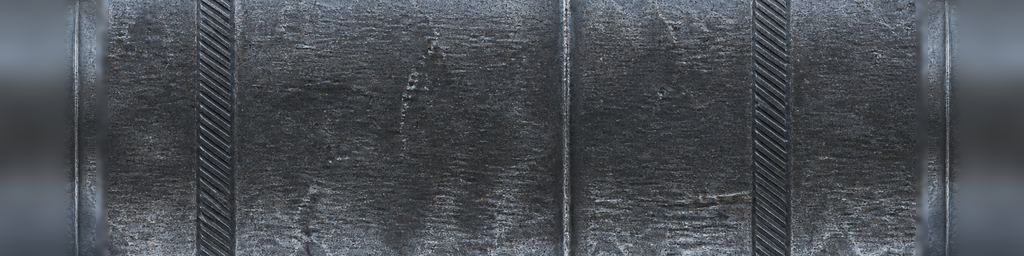
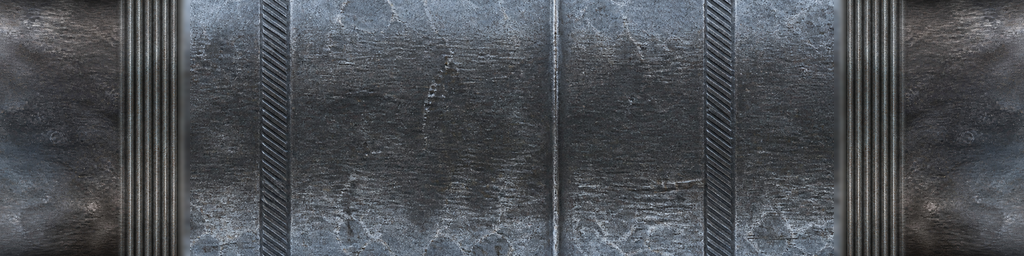
fix(core): the knobs get their own worn skin — and the texel budget follows the ornament
"Die Kappen sehen jetzt noch zu clean aus im Vergleich zum Rest, auch da will ich
Details!" — and the cause was the previous commit's own shortcut.

To get the beading off the ball, that pass BLURRED the collar map across the dome.
It removed the ridges, and with them every pit, scratch and tarnish pool, so the
knobs came back reading as clean plastic bolted to shafts full of wear. A surface
is authored, not blurred out of another surface.

Each knob now has its OWN unwrap, generated to the same wear vocabulary as the
shafts but with no repeating ridges of any kind: casting pits, bubbles, a chipped
edge, tarnish pooling in the hollows, and a few areas rubbed bright where a thumb
lands. Steel also gained a proper beaded COLLAR map, having previously borrowed the
shaft's unwrap for its ferrule. The cap band is now composited from two real maps
with a short crossfade at the join, and the join lands where the geometry stops
being a ball, because the dome's share is read out of the mesh's own constants.

The MRS map follows the same split: a cap band is no longer one material, so its
metallic and roughness are picked per column — knob, collar or shaft.

AND THE TEXEL BUDGET WAS WRONG, which is the part worth keeping. A cap is ~8 % of
the rod's length, so the strip was split proportionally: 102 of 1024 texels. But
the cap is where nearly ALL the ornament is, and the shaft is a long slow uniform
run. At that split the 1536-wide generated source had to be squeezed 15x into the
[…]

diff --git a/scripts/grabbar-strips.py b/scripts/grabbar-strips.py
@@ -112,6 +112,38 @@ SWATCHES = {
         "with the tarnish heaviest between the beads. Small casting pits and a few bright rubbed "
         "spots where a thumb would land."),
 
+    # ---- KNOB skins: as beaten-up as the shafts, but WITHOUT the beading -------------------
+    #
+    # The first cut got the knob smooth by BLURRING the beaded collar texture across the dome. It
+    # removed the ridges and every pit, scratch and tarnish streak with them, and the user's verdict
+    # was immediate: "Die Kappen sehen jetzt noch zu clean aus im Vergleich zum Rest." Blur is not a
+    # way to author a surface. The dome gets its own map instead — same wear vocabulary as the
+    # shafts, no repeating ridges.
+    'sw_knob_antique': UNWRAP + WEAR + (
+        "Material: dark antique bronze, tarnished deep brown-bronze with nearly black recesses. "
+        "NO beading, NO ridges, NO repeating pattern of any kind — this is the skin of a smooth "
+        "cast knob. Instead: shallow casting pits, a scatter of tiny bubbles, one small chip on an "
+        "edge, uneven greenish-black tarnish pooling in the low spots, and two or three areas "
+        "rubbed bright and warm where a thumb has worn the tarnish away."),
+
+    'sw_knob_gold': UNWRAP + WEAR + (
+        "Material: warm gilt bronze, softly polished, old rather than new. NO beading, NO ridges, "
+        "NO repeating pattern — a smooth cast knob. Instead: fine crazed scratches, a few dents, "
+        "old tarnish and a trace of verdigris settled in the hollows, and broad areas rubbed to a "
+        "warm gleam by handling."),
+
+    'sw_knob_steel': UNWRAP + WEAR + (
+        "Material: cool blue-grey forged steel. NO beading, NO ridges, NO repeating pattern — a "
+        "smooth forged knob. Instead: faint hammer facets, shallow pitting, a few rust-brown "
+        "specks deep in the pits, cold and desaturated with no warm tones at all, and a couple of "
+        "burnished bright patches."),
+
+    # ---- and a proper beaded COLLAR for steel (it was borrowing the shaft's unwrap) --------
+    'sw_collar_steel': UNWRAP + (
+        "Material: cool blue-grey forged steel, no warm tones. Decoration: closely spaced fine "
+        "VERTICAL beading across the whole frame, like a knurled ferrule, the hollows between the "
+        "beads darkened and slightly rust-flecked, the crowns worn bright."),
+
     'sw_gold': UNWRAP + (
         "Material: warm gilt bronze, softly polished, with age in it rather than showroom shine. "
         "Decoration: closely spaced fine VERTICAL beading across the whole frame, the hollows "
@@ -137,6 +169,10 @@ SHADING = {
     'sw_brass':    (0.95, 0.30),
     'sw_gold':     (0.95, 0.25),
     'sw_antique':  (0.90, 0.42),
+    'sw_knob_antique': (0.90, 0.40),
+    'sw_knob_gold':    (0.95, 0.26),
+    'sw_knob_steel':   (0.90, 0.44),
+    'sw_collar_steel': (0.90, 0.46),
 }
 
 # (output name, shaft swatch, cap swatch, bake_round)
@@ -148,11 +184,12 @@ SHADING = {
 # GloomhavenVR/Overlay exposes (that shader exists because the board occluded these widgets three
 # separate times). Overlay is UNLIT, so an untouched strip would make the window rod read FLAT —
 # the exact defect this whole redesign removes. So the window rod carries its roundness in v.
+# (output name, shaft unwrap, COLLAR unwrap (beaded), KNOB unwrap (smooth but worn), bake_round)
 STRIPS = [
-    ('grabbar_oak',     'sw_oak',    'sw_antique', False),
-    ('grabbar_steel',   'sw_steel',  'sw_steel',   False),
-    ('grabbar_bronze',  'sw_bronze', 'sw_gold',    False),
-    ('grabbar_generic', 'sw_walnut', 'sw_antique', True),
+    ('grabbar_oak',     'sw_oak',    'sw_antique',      'sw_knob_antique', False),
+    ('grabbar_steel',   'sw_steel',  'sw_collar_steel', 'sw_knob_steel',   False),
+    ('grabbar_bronze',  'sw_bronze', 'sw_gold',         'sw_knob_gold',    False),
+    ('grabbar_generic', 'sw_walnut', 'sw_antique',      'sw_knob_antique', True),
 ]
 
 
@@ -280,32 +317,35 @@ def grade(img, name):
     return img
 
 
-def cap_band(swatch_dir, name, width, height, dome_frac):
-    """The cap's strip: a SMOOTH knob, then the beaded collar.
+def cap_band(swatch_dir, knob_sw, collar_sw, width, height, dome_frac):
+    """The cap's strip: the KNOB's own worn skin, then the beaded collar.
 
-    The generated cap unwraps are beaded edge to edge, which is right for the collar and wrong for
-    the ball — painted across the dome it renders as a beehive. The dome's share of the band is
-    computed from the mesh's own constants, and over that stretch the beading is dissolved away
-    with a heavy blur, leaving the material (tarnish, pits, rubbed spots) but not the ridges. A
-    short crossfade keeps the join from reading as a hard edge.
+    The dome's share of the band is computed from the mesh's own constants, so the join lands
+    exactly where the geometry stops being a ball and starts being a collar. A short crossfade
+    keeps it from reading as a hard edge.
+
+    THE PREVIOUS VERSION BLURRED THE COLLAR MAP ACROSS THE DOME to get rid of the beading. That did
+    remove the ridges — along with the pits, the scratches and the tarnish, which is why the knobs
+    came back reading as clean plastic against shafts full of wear. A surface is authored, not
+    blurred out of another surface.
     """
-    sharp = band(swatch_dir, name, width, height)
-    smooth = sharp.filter(ImageFilter.GaussianBlur(max(2.0, width * 0.10)))
-    out = sharp.copy()
+    knob = band(swatch_dir, knob_sw, width, height)
+    collar = band(swatch_dir, collar_sw, width, height)
+    out = collar.copy()
     px_out = out.load()
-    px_s = smooth.load()
-    px_h = sharp.load()
+    px_k = knob.load()
+    px_c = collar.load()
     dome_px = dome_frac * width
-    fade = max(1.0, width * 0.10)
+    fade = max(1.0, width * 0.09)
     for x in range(width):
-        # 1 at the tip (all smooth), 0 past the crossfade (all beading).
+        # 1 over the knob, 0 past the crossfade.
         t = 1.0 - min(1.0, max(0.0, (x - (dome_px - fade)) / fade))
         if t >= 0.999:
             for y in range(height):
-                px_out[x, y] = px_s[x, y]
+                px_out[x, y] = px_k[x, y]
         elif t > 0.001:
             for y in range(height):
-                a, b = px_s[x, y], px_h[x, y]
+                a, b = px_k[x, y], px_c[x, y]
                 px_out[x, y] = (int(a[0] * t + b[0] * (1 - t)),
                                 int(a[1] * t + b[1] * (1 - t)),
                                 int(a[2] * t + b[2] * (1 - t)))
@@ -373,7 +413,7 @@ def normal_map(img, strength=2.2):
     return out
 
 
-def mrs_map(img, cap_px, shaft_sw, cap_sw):
+def mrs_map(img, cap_px, shaft_sw, cap_sw, knob_sw, dome_frac):
     """R = metallic, G = roughness — the packing GloomhavenVR/BoardLit declares.
 
     Roughness is modulated by the albedo's own luminance so that pits and grain read as rougher
@@ -385,8 +425,15 @@ def mrs_map(img, cap_px, shaft_sw, cap_sw):
     px = out.load()
     for y in range(h):
         for x in range(w):
-            in_cap = x < cap_px or x >= w - cap_px
-            metal, rough = SHADING[cap_sw if in_cap else shaft_sw]
+            # Which of the THREE materials this column is: knob, collar, or shaft. The cap band
+            # is no longer one material, so neither is its metallic/roughness.
+            if x < cap_px:
+                which = knob_sw if x < cap_px * dome_frac else cap_sw
+            elif x >= w - cap_px:
+                which = knob_sw if (w - 1 - x) < cap_px * dome_frac else cap_sw
+            else:
+                which = shaft_sw
+            metal, rough = SHADING[which]
             rough = min(1.0, max(0.0, rough + (0.5 - lum[y][x]) * 0.35))
             px[x, y] = (int(metal * 255), int(rough * 255), 0)
     return out
@@ -444,15 +491,15 @@ def main():
     print(f'ShaftU0={frac} -> cap band {cap_px} px of {W}')
 
     os.makedirs(OUT, exist_ok=True)
-    for name, shaft_sw, cap_sw, round_bake in STRIPS:
+    for name, shaft_sw, cap_sw, knob_sw, round_bake in STRIPS:
         img = Image.new('RGB', (W, H))
         shaft_w = W - 2 * cap_px
-        img.paste(cap_band(args.swatches, cap_sw, cap_px, H, dome_frac), (0, 0))
+        cap = cap_band(args.swatches, knob_sw, cap_sw, cap_px, H, dome_frac)
+        img.paste(cap, (0, 0))
         img.paste(band(args.swatches, shaft_sw, shaft_w, H), (cap_px, 0))
         # The far cap is the near cap MIRRORED, so both ends carry the same material and the wrap
         # at u=1 meets u=0 on identical pixels.
-        img.paste(cap_band(args.swatches, cap_sw, cap_px, H, dome_frac)
-                  .transpose(Image.FLIP_LEFT_RIGHT), (W - cap_px, 0))
+        img.paste(cap.transpose(Image.FLIP_LEFT_RIGHT), (W - cap_px, 0))
         # Feather the two band joins so no mip level shows a hard vertical line where the materials
         # meet.
         for x in (cap_px, W - cap_px):
@@ -463,7 +510,8 @@ def main():
         # surface that already is one.
         if not round_bake:
             for suffix, made in (('_n', normal_map(img)),
-                                 ('_mrs', mrs_map(img, cap_px, shaft_sw, cap_sw))):
+                                 ('_mrs', mrs_map(img, cap_px, shaft_sw, cap_sw,
+                                                  knob_sw, dome_frac))):
                 mpath = os.path.join(OUT, name + suffix + '.png')
                 made.save(mpath, optimize=True)
                 print('wrote', os.path.relpath(mpath, ROOT), os.path.getsize(mpath), 'bytes')

diff --git a/src/GloomhavenVR/Core/GrabBar.cs b/src/GloomhavenVR/Core/GrabBar.cs
@@ -113,12 +113,25 @@ namespace GloomhavenVR.Core
         /// runs. Two copies of a lathe profile is how the picture you check stops being the picture you
         /// ship. <c>Core.GrabBarTexture</c> and <c>scripts/grabbar-strips.py</c> both read these two
         /// numbers from here instead of carrying their own.
+        ///
+        /// <para><b>WHY 0.18 AND NOT THE PROPORTIONAL 0.10.</b> A cap is 2.0 R of a 25 R rod, about
+        /// 8 % of its length, so splitting the strip by LENGTH would give it a tenth. But the cap
+        /// is where nearly all the ornament is — the knob's tarnish and pitting and the whole
+        /// beaded collar — while the shaft is a long, slow, mostly uniform run. At 0.10 the cap got
+        /// 102 of 1024 texels and the generated 1536-wide source had to be squeezed 15x into it,
+        /// which survives as fine noise and loses every chip and every tarnish pool: the knobs read
+        /// as clean plastic next to shafts full of wear, which is exactly what the user reported.
+        /// Texels are spent where the DETAIL is, not where the metres are.</para>
+        ///
+        /// <para>Changing this one number moves the mesh's UVs and the compositor's band boundary
+        /// together, because both read it from here — which is the whole reason it lives in one
+        /// place.</para>
         /// </summary>
-        internal const float ShaftU0 = 0.10f;
+        internal const float ShaftU0 = 0.18f;
 
         /// <summary>Where the shaft ends and the far CAP band begins, in <c>u</c>. See
         /// <see cref="ShaftU0"/>.</summary>
-        internal const float ShaftU1 = 0.90f;
+        internal const float ShaftU1 = 0.82f;
 
         /// <summary>
         /// Radial segments around the rod. TWENTY-FOUR, up from the sixteen the first cut used:
